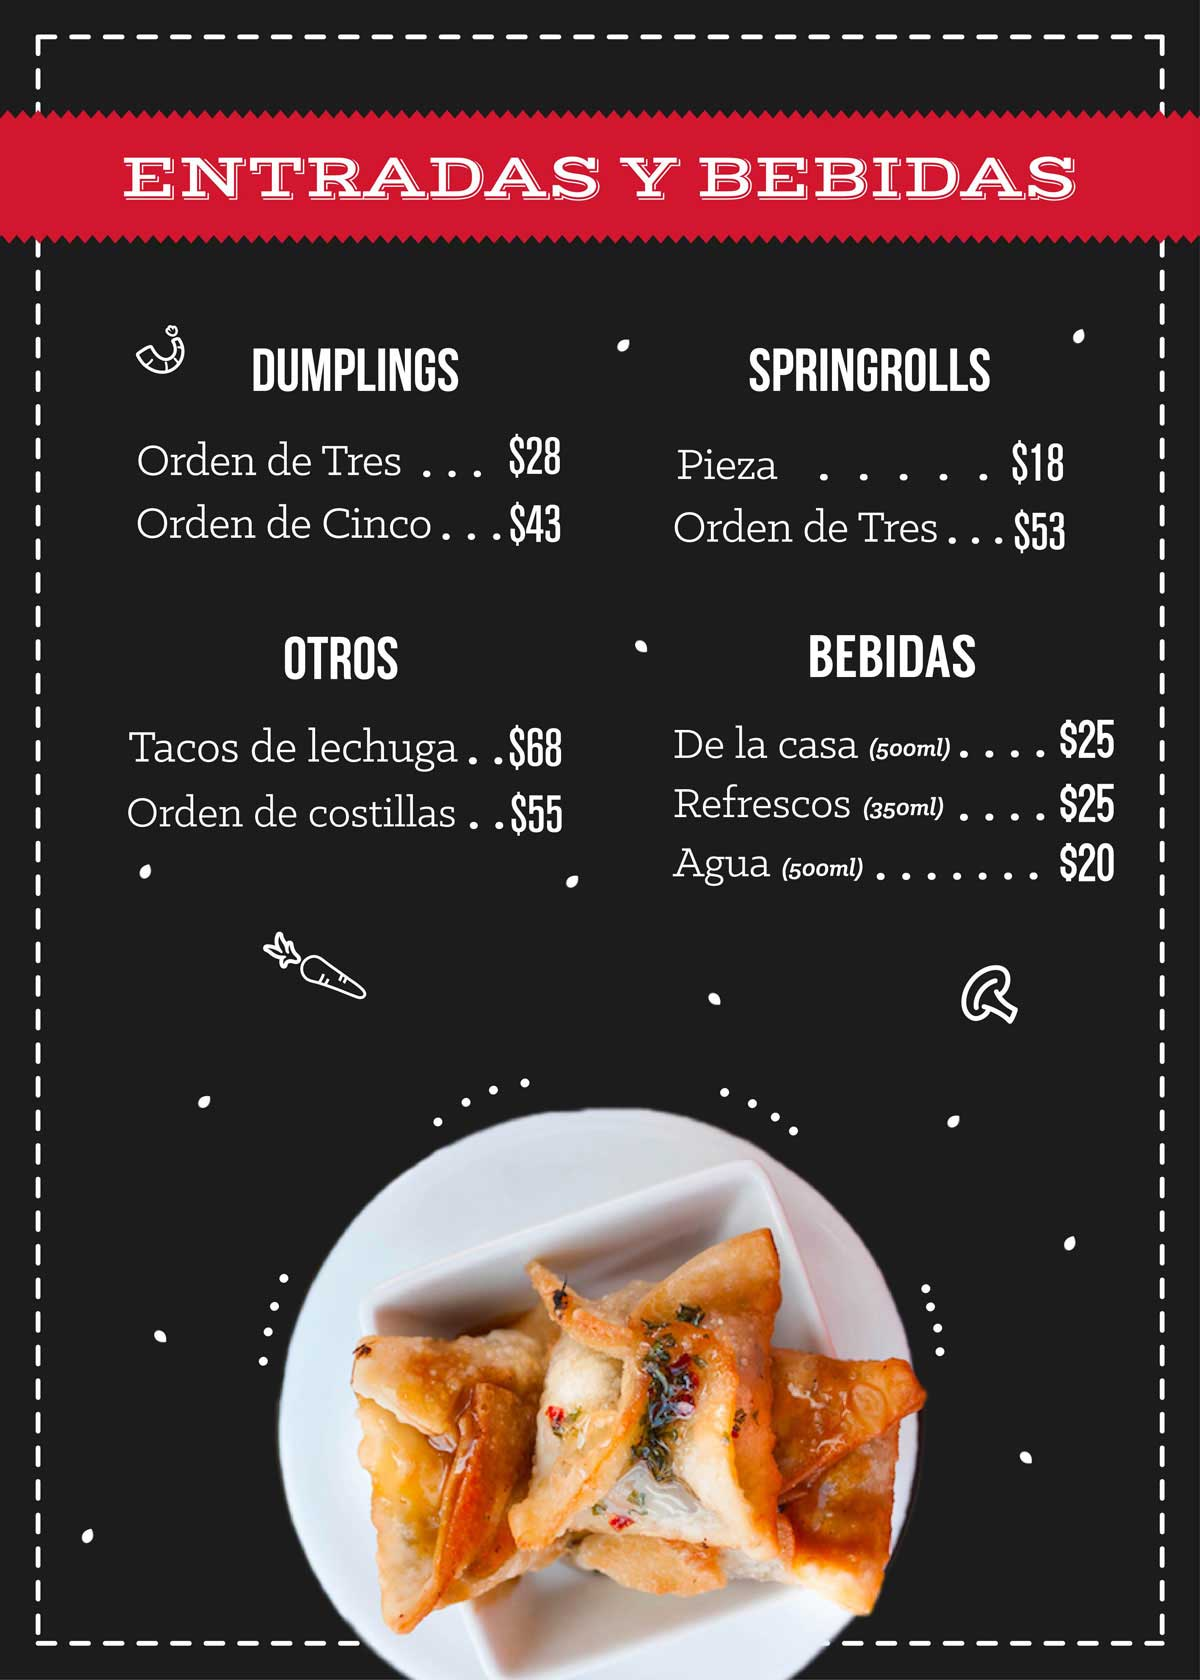
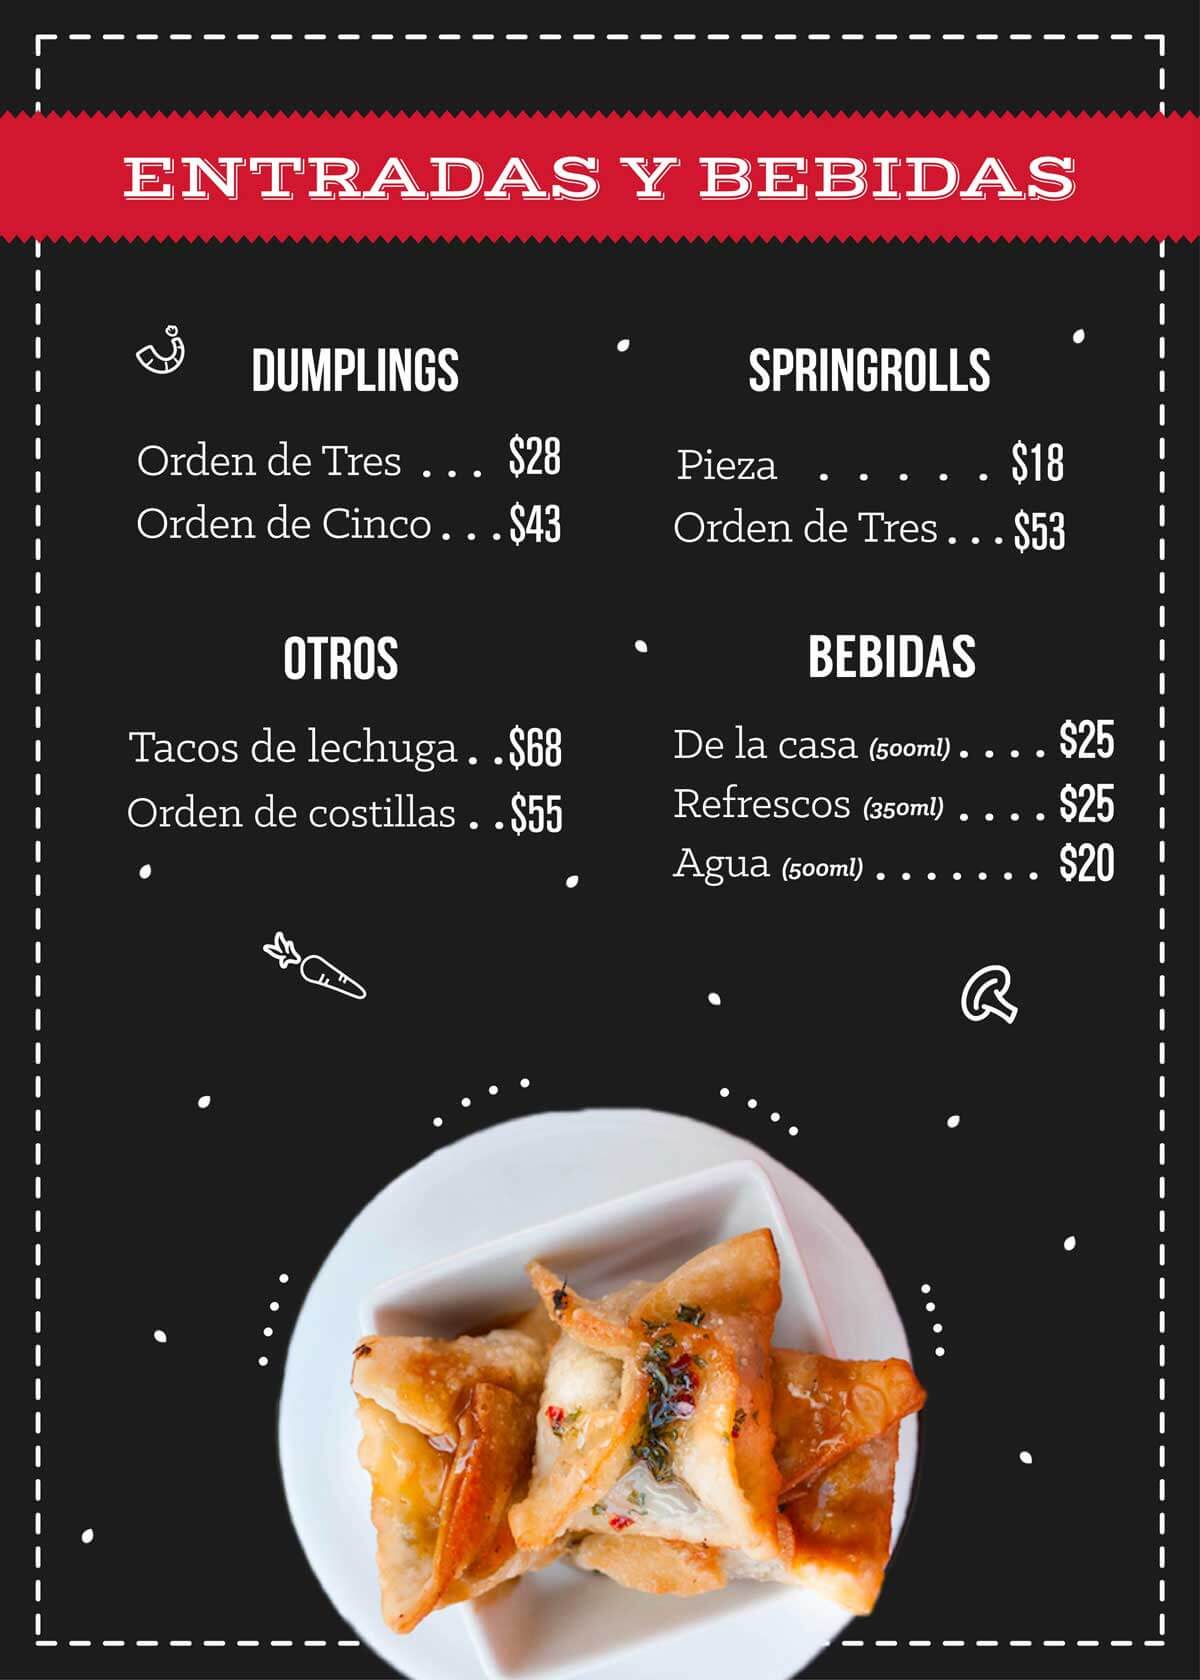
changing carousel

diff --git a/css/styles.css b/css/styles.css
@@ -155,7 +155,7 @@ body {
 }
 
 .right-wok img{
-  width: 84%;
+  max-width: 84%;
 }
 
 #menu{
